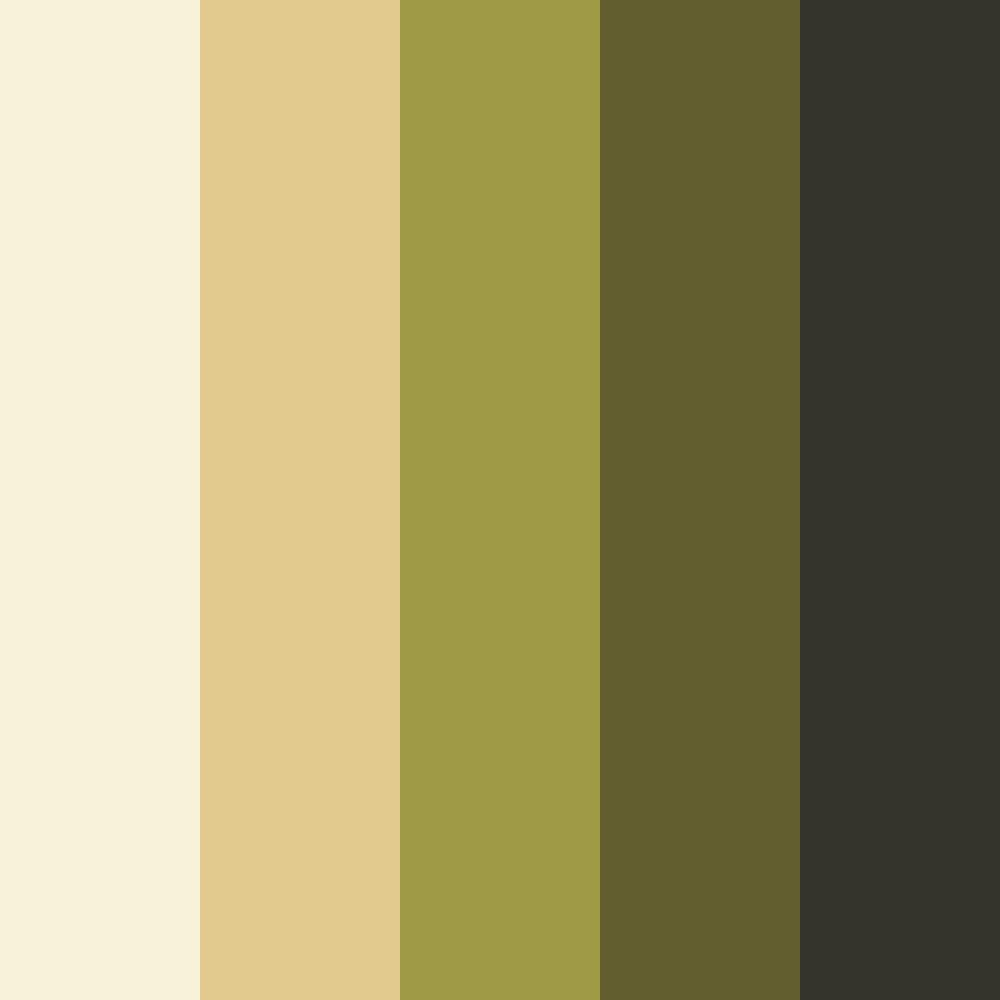
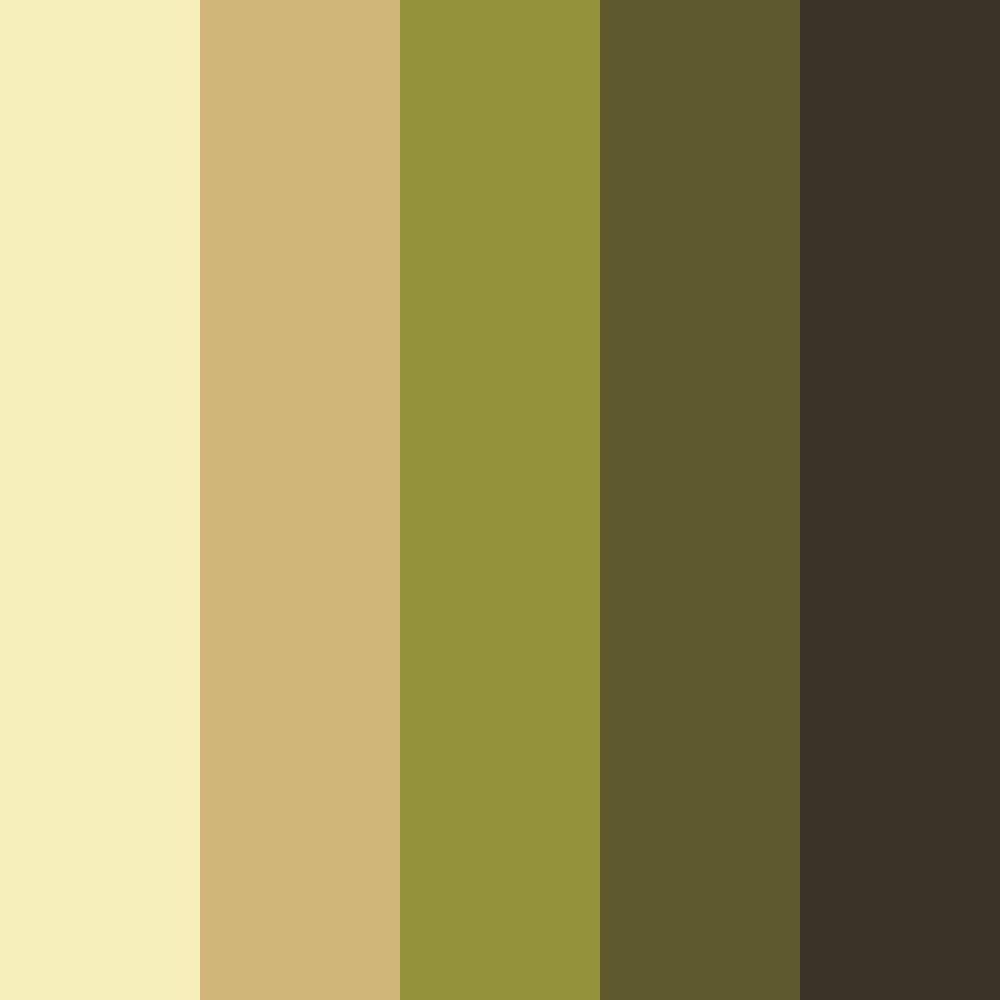
permutation sorted output data updating

Changed region(s): [[0.0, 0.0, 0.217, 1.0]]

diff --git a/cluster.py b/cluster.py
@@ -1,18 +1,20 @@
 import matplotlib.image as mpimg
-import matplotlib.pyplot as plt
 import numpy as np
 import scipy.optimize as sco
-from sklearn.cluster import KMeans
-from PIL import Image
 import cv2 as cv2
 import os
 import glob
 import time
+import itertools
+from sklearn.cluster import KMeans
+from PIL import Image
+
 from data_set import pred
 
 
 image_path = './test'
 K = 5
+alpha = 0.1
 paths = glob.glob(os.path.join(image_path, '*.jpg'))
 
 
@@ -112,7 +114,7 @@ def distance_count(clr, img):
 
 
 def fuction2op(clr):
-    return distance_count(clr, img)*0.1 - pred(clr)
+    return distance_count(clr, img)*alpha - pred(clr)
 
 
 def callbackf(x):
@@ -120,6 +122,16 @@ def callbackf(x):
     print(np.array2string(x, separator=', '))
     print(time.ctime())
 
+
+def max_point(clr):
+    max_p = 0
+    clr_per = clr
+    for i in list(itertools.permutations([0, 1, 2, 3, 4])):
+        hi_clr = np.array([clr[i[0]], clr[i[1]], clr[i[2]], clr[i[3]], clr[i[4]]])
+        if max_p < pred(hi_clr):
+            max_p = pred(hi_clr)
+            clr_per = hi_clr
+    return clr_per
 
 for path in paths:
     title = path.split('\\')
@@ -129,22 +141,26 @@ for path in paths:
     seg_res = seg(path)
     #show_color_knn(knn_res[0], title)
     #print(pred(knn_res[0]), knn_res[1])
-    show_color_seg(seg_res[0].reshape(5,3), title)
+    show_color_seg(seg_res[0].reshape(5, 3), title)
     #print(pred(seg_res[0]), seg_res[1])
     img = cv2.imread(path)
     print('start point and distance:', fuction2op(seg_res[0]), seg_res[1])
-    print('try:', distance_count(seg_res[0], img))
-    print('seg result color:', np.array2string(seg_res[0], separator=', '))
+    print('start estimate:', pred(seg_res[0]))
+    print('seg result color:')
+    print(np.array2string(seg_res[0], separator=', '))
     print('start time:', time.ctime())
     print('----------  optimize start  -----------')
-    res = sco.fmin(fuction2op, seg_res[0], maxiter=50)
+    inp = max_point(seg_res[0].reshape(5, 3))
+    res = sco.fmin(fuction2op, inp, maxiter=50)
+    print('optimize finish time:', time.ctime())
     print('---------- optimize finish ------------')
     res = np.array(res)
     res = res.reshape(5, 3)
-    print('optimize point:', fuction2op(res))
+    print('optimized point and distance:', fuction2op(res), distance_count(res, img))
+    print('optimized estimate:', pred(res))
     res = res.tolist()
-    res.sort(reverse=True)
     show_color_seg(res, title+'_opt')
+    print('optimized result:')
     print(res)
     print('------------------image '+title + ' is over------------------')
 
